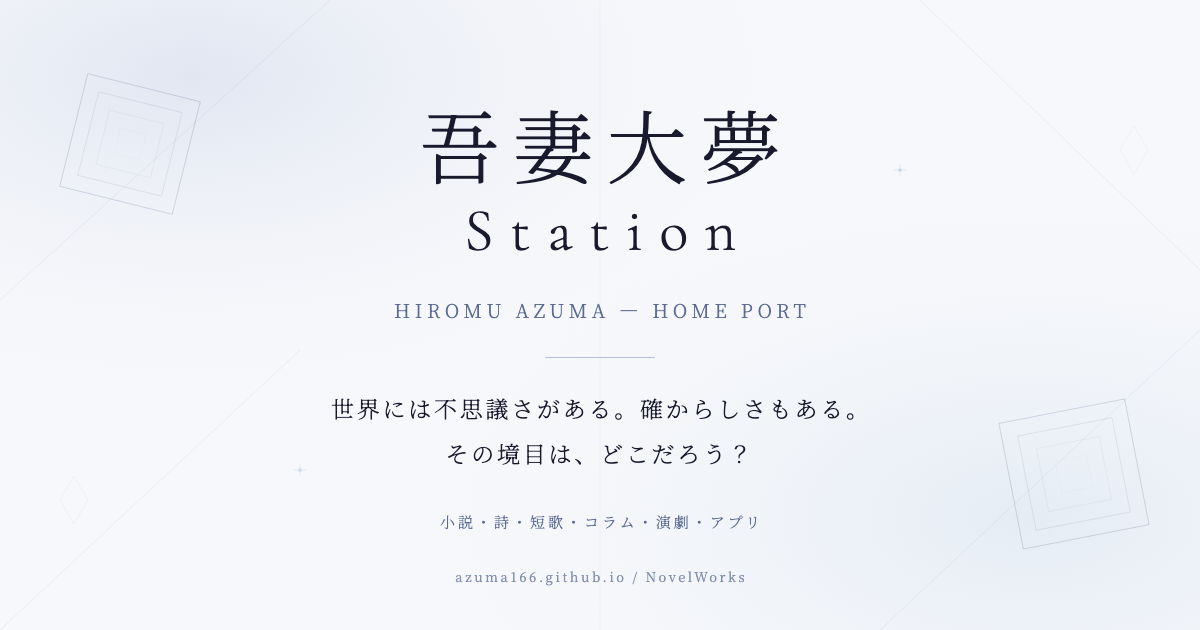
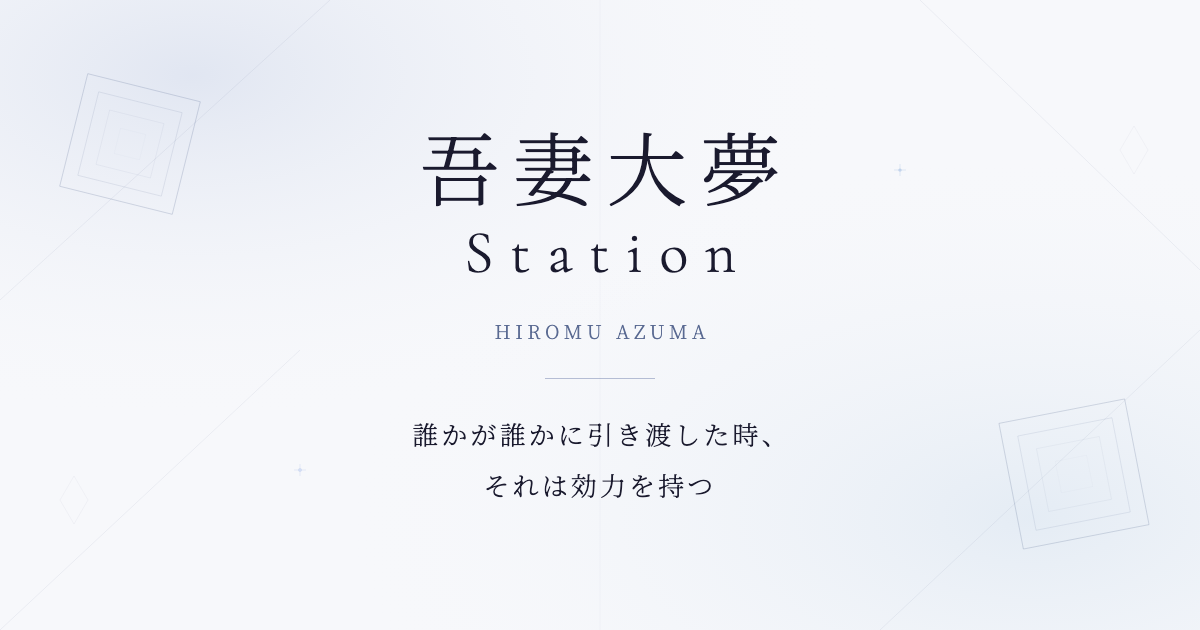
Strip the metadata down to the name and one line
Every page now carries the title 吾妻大夢 Station and the description
誰かが誰かに引き渡した時、それは効力を持つ — in <title>, meta
description, Open Graph and the Twitter card alike. The genre lists and
per-page explanations are gone.

The OGP image follows: the name, HIROMU AZUMA, and the same line. Dropped
the genre row and the URL footer.

Note this makes browser tabs and search results identical for all sixteen
pages; per-page titles can come back for navigation alone if that turns
out to matter.

diff --git a/column/shokushin/index.html b/column/shokushin/index.html
@@ -4,8 +4,8 @@
 <meta charset="UTF-8">
 <meta name="viewport" content="width=device-width, initial-scale=1.0">
 
-<title>触診｜Column｜吾妻大夢 Station</title>
-<meta name="description" content="ビジョンを立てれば人生は進む。理論武装で心は守られる。僕の頭は、個々の事象をまとめあげ何か理論を打ち立てる。ここからこの時期は観察をしていた。この時期は行為による相互干渉、ここでは強迫的拡張…">
+<title>吾妻大夢 Station</title>
+<meta name="description" content="誰かが誰かに引き渡した時、それは効力を持つ">
 <link rel="canonical" href="https://azuma166.github.io/NovelWorks/column/shokushin/">
 <meta name="author" content="吾妻大夢">
 <meta name="robots" content="index,follow,max-image-preview:large">
@@ -14,16 +14,16 @@
 
 <meta property="og:type" content="website">
 <meta property="og:site_name" content="吾妻大夢 Station">
-<meta property="og:title" content="触診 — 風船のように弾けてはならない">
-<meta property="og:description" content="ビジョンを立てれば人生は進む。理論武装で心は守られる。僕の頭は、個々の事象をまとめあげ何か理論を打ち立てる。ここからこの時期は観察をしていた。この時期は行為による相互干渉、ここでは強迫的拡張…">
+<meta property="og:title" content="吾妻大夢 Station">
+<meta property="og:description" content="誰かが誰かに引き渡した時、それは効力を持つ">
 <meta property="og:url" content="https://azuma166.github.io/NovelWorks/column/shokushin/">
 <meta property="og:image" content="https://azuma166.github.io/NovelWorks/assets/ogp.png">
 <meta property="og:image:width" content="1200">
 <meta property="og:image:height" content="630">
 <meta property="og:locale" content="ja_JP">
 <meta name="twitter:card" content="summary_large_image">
-<meta name="twitter:title" content="触診 — 風船のように弾けてはならない">
-<meta name="twitter:description" content="ビジョンを立てれば人生は進む。理論武装で心は守られる。僕の頭は、個々の事象をまとめあげ何か理論を打ち立てる。ここからこの時期は観察をしていた。この時期は行為による相互干渉、ここでは強迫的拡張…">
+<meta name="twitter:title" content="吾妻大夢 Station">
+<meta name="twitter:description" content="誰かが誰かに引き渡した時、それは効力を持つ">
 <meta name="twitter:image" content="https://azuma166.github.io/NovelWorks/assets/ogp.png">
 
 <link rel="preconnect" href="https://fonts.googleapis.com">

diff --git a/column/setsuzoku/index.html b/column/setsuzoku/index.html
@@ -4,8 +4,8 @@
 <meta charset="UTF-8">
 <meta name="viewport" content="width=device-width, initial-scale=1.0">
 
-<title>接続｜Column｜吾妻大夢 Station</title>
-<meta name="description" content="絶えず僕たちは何かに触れている。息をするだけで外界に触れ、お茶を飲むならコップに触れ、文字を打つならスマホに触れる。果てには、人に会うなら言葉に触れ、視覚像に触れ、あるいは環境的制約に、ある…">
+<title>吾妻大夢 Station</title>
+<meta name="description" content="誰かが誰かに引き渡した時、それは効力を持つ">
 <link rel="canonical" href="https://azuma166.github.io/NovelWorks/column/setsuzoku/">
 <meta name="author" content="吾妻大夢">
 <meta name="robots" content="index,follow,max-image-preview:large">
@@ -14,16 +14,16 @@
 
 <meta property="og:type" content="website">
 <meta property="og:site_name" content="吾妻大夢 Station">
-<meta property="og:title" content="接続 — 誰しもに現実は与えられる">
-<meta property="og:description" content="絶えず僕たちは何かに触れている。息をするだけで外界に触れ、お茶を飲むならコップに触れ、文字を打つならスマホに触れる。果てには、人に会うなら言葉に触れ、視覚像に触れ、あるいは環境的制約に、ある…">
+<meta property="og:title" content="吾妻大夢 Station">
+<meta property="og:description" content="誰かが誰かに引き渡した時、それは効力を持つ">
 <meta property="og:url" content="https://azuma166.github.io/NovelWorks/column/setsuzoku/">
 <meta property="og:image" content="https://azuma166.github.io/NovelWorks/assets/ogp.png">
 <meta property="og:image:width" content="1200">
 <meta property="og:image:height" content="630">
 <meta property="og:locale" content="ja_JP">
 <meta name="twitter:card" content="summary_large_image">
-<meta name="twitter:title" content="接続 — 誰しもに現実は与えられる">
-<meta name="twitter:description" content="絶えず僕たちは何かに触れている。息をするだけで外界に触れ、お茶を飲むならコップに触れ、文字を打つならスマホに触れる。果てには、人に会うなら言葉に触れ、視覚像に触れ、あるいは環境的制約に、ある…">
+<meta name="twitter:title" content="吾妻大夢 Station">
+<meta name="twitter:description" content="誰かが誰かに引き渡した時、それは効力を持つ">
 <meta name="twitter:image" content="https://azuma166.github.io/NovelWorks/assets/ogp.png">
 
 <link rel="preconnect" href="https://fonts.googleapis.com">

diff --git a/column/tenshi/index.html b/column/tenshi/index.html
@@ -4,8 +4,8 @@
 <meta charset="UTF-8">
 <meta name="viewport" content="width=device-width, initial-scale=1.0">
 
-<title>天使｜Column｜吾妻大夢 Station</title>
-<meta name="description" content="天使になりたかった。これは別に、河川敷で日々飛ぶ為の修行をしていたとか、そういう話ではなく。僕のなりたい人物像を固めていって、それに天使という名前をつけた。勝手に独りで。天使は伝言する。他者…">
+<title>吾妻大夢 Station</title>
+<meta name="description" content="誰かが誰かに引き渡した時、それは効力を持つ">
 <link rel="canonical" href="https://azuma166.github.io/NovelWorks/column/tenshi/">
 <meta name="author" content="吾妻大夢">
 <meta name="robots" content="index,follow,max-image-preview:large">
@@ -14,16 +14,16 @@
 
 <meta property="og:type" content="website">
 <meta property="og:site_name" content="吾妻大夢 Station">
-<meta property="og:title" content="天使 — 誰かを真剣に大切にすること">
-<meta property="og:description" content="天使になりたかった。これは別に、河川敷で日々飛ぶ為の修行をしていたとか、そういう話ではなく。僕のなりたい人物像を固めていって、それに天使という名前をつけた。勝手に独りで。天使は伝言する。他者…">
+<meta property="og:title" content="吾妻大夢 Station">
+<meta property="og:description" content="誰かが誰かに引き渡した時、それは効力を持つ">
 <meta property="og:url" content="https://azuma166.github.io/NovelWorks/column/tenshi/">
 <meta property="og:image" content="https://azuma166.github.io/NovelWorks/assets/ogp.png">
 <meta property="og:image:width" content="1200">
 <meta property="og:image:height" content="630">
 <meta property="og:locale" content="ja_JP">
 <meta name="twitter:card" content="summary_large_image">
-<meta name="twitter:title" content="天使 — 誰かを真剣に大切にすること">
-<meta name="twitter:description" content="天使になりたかった。これは別に、河川敷で日々飛ぶ為の修行をしていたとか、そういう話ではなく。僕のなりたい人物像を固めていって、それに天使という名前をつけた。勝手に独りで。天使は伝言する。他者…">
+<meta name="twitter:title" content="吾妻大夢 Station">
+<meta name="twitter:description" content="誰かが誰かに引き渡した時、それは効力を持つ">
 <meta name="twitter:image" content="https://azuma166.github.io/NovelWorks/assets/ogp.png">
 
 <link rel="preconnect" href="https://fonts.googleapis.com">

diff --git a/index.html b/index.html
@@ -4,8 +4,8 @@
 <meta charset="UTF-8">
 <meta name="viewport" content="width=device-width, initial-scale=1.0">
 
-<title>吾妻大夢 Station｜小説・詩・短歌・演劇・アプリ</title>
-<meta name="description" content="吾妻大夢（Hiromu Azuma）の母港。世界には不思議さがある。確からしさもある。その境目は、どこだろう？ 小説を軸に、詩、短歌、コラム、演劇、アプリケーション。">
+<title>吾妻大夢 Station</title>
+<meta name="description" content="誰かが誰かに引き渡した時、それは効力を持つ">
 <link rel="canonical" href="https://azuma166.github.io/NovelWorks/">
 <meta name="author" content="吾妻大夢">
 <meta name="robots" content="index,follow,max-image-preview:large">
@@ -14,16 +14,16 @@
 
 <meta property="og:type" content="website">
 <meta property="og:site_name" content="吾妻大夢 Station">
-<meta property="og:title" content="吾妻大夢 Station｜小説・詩・短歌・演劇・アプリ">
-<meta property="og:description" content="吾妻大夢（Hiromu Azuma）の母港。世界には不思議さがある。確からしさもある。その境目は、どこだろう？ 小説を軸に、詩、短歌、コラム、演劇、アプリケーション。">
+<meta property="og:title" content="吾妻大夢 Station">
+<meta property="og:description" content="誰かが誰かに引き渡した時、それは効力を持つ">
 <meta property="og:url" content="https://azuma166.github.io/NovelWorks/">
 <meta property="og:image" content="https://azuma166.github.io/NovelWorks/assets/ogp.png">
 <meta property="og:image:width" content="1200">
 <meta property="og:image:height" content="630">
 <meta property="og:locale" content="ja_JP">
 <meta name="twitter:card" content="summary_large_image">
-<meta name="twitter:title" content="吾妻大夢 Station｜小説・詩・短歌・演劇・アプリ">
-<meta name="twitter:description" content="吾妻大夢（Hiromu Azuma）の母港。世界には不思議さがある。確からしさもある。その境目は、どこだろう？ 小説を軸に、詩、短歌、コラム、演劇、アプリケーション。">
+<meta name="twitter:title" content="吾妻大夢 Station">
+<meta name="twitter:description" content="誰かが誰かに引き渡した時、それは効力を持つ">
 <meta name="twitter:image" content="https://azuma166.github.io/NovelWorks/assets/ogp.png">
 
 <link rel="preconnect" href="https://fonts.googleapis.com">

diff --git a/works/books/index.html b/works/books/index.html
@@ -4,8 +4,8 @@
 <meta charset="UTF-8">
 <meta name="viewport" content="width=device-width, initial-scale=1.0">
 
-<title>Books｜吾妻大夢 Station</title>
-<meta name="description" content="吾妻大夢の小説・詩集・エッセイ一覧。マジックリアリズム幻想小説、思索小説を中心に、Amazon KDPにて発売中。">
+<title>吾妻大夢 Station</title>
+<meta name="description" content="誰かが誰かに引き渡した時、それは効力を持つ">
 <link rel="canonical" href="https://azuma166.github.io/NovelWorks/works/books/">
 <meta name="author" content="吾妻大夢">
 <meta name="robots" content="index,follow,max-image-preview:large">
@@ -14,16 +14,16 @@
 
 <meta property="og:type" content="website">
 <meta property="og:site_name" content="吾妻大夢 Station">
-<meta property="og:title" content="Books — 虚構の境域にて">
-<meta property="og:description" content="吾妻大夢の小説・詩集・エッセイ一覧。マジックリアリズム幻想小説、思索小説を中心に、Amazon KDPにて発売中。">
+<meta property="og:title" content="吾妻大夢 Station">
+<meta property="og:description" content="誰かが誰かに引き渡した時、それは効力を持つ">
 <meta property="og:url" content="https://azuma166.github.io/NovelWorks/works/books/">
 <meta property="og:image" content="https://azuma166.github.io/NovelWorks/assets/ogp.png">
 <meta property="og:image:width" content="1200">
 <meta property="og:image:height" content="630">
 <meta property="og:locale" content="ja_JP">
 <meta name="twitter:card" content="summary_large_image">
-<meta name="twitter:title" content="Books — 虚構の境域にて">
-<meta name="twitter:description" content="吾妻大夢の小説・詩集・エッセイ一覧。マジックリアリズム幻想小説、思索小説を中心に、Amazon KDPにて発売中。">
+<meta name="twitter:title" content="吾妻大夢 Station">
+<meta name="twitter:description" content="誰かが誰かに引き渡した時、それは効力を持つ">
 <meta name="twitter:image" content="https://azuma166.github.io/NovelWorks/assets/ogp.png">
 
 <link rel="preconnect" href="https://fonts.googleapis.com">

diff --git a/works/theater/index.html b/works/theater/index.html
@@ -4,8 +4,8 @@
 <meta charset="UTF-8">
 <meta name="viewport" content="width=device-width, initial-scale=1.0">
 
-<title>デジカ｜Theater｜吾妻大夢 Station</title>
-<meta name="description" content="『デジカ』京田辺、演劇ないん会 第16回本公演。脚本/演出：吾妻。本編映像を公開中。">
+<title>吾妻大夢 Station</title>
+<meta name="description" content="誰かが誰かに引き渡した時、それは効力を持つ">
 <link rel="canonical" href="https://azuma166.github.io/NovelWorks/works/theater/">
 <meta name="author" content="吾妻大夢">
 <meta name="robots" content="index,follow,max-image-preview:large">
@@ -14,16 +14,16 @@
 
 <meta property="og:type" content="website">
 <meta property="og:site_name" content="吾妻大夢 Station">
-<meta property="og:title" content="デジカ — 手振りでつくられるその空気">
-<meta property="og:description" content="『デジカ』京田辺、演劇ないん会 第16回本公演。脚本/演出：吾妻。本編映像を公開中。">
+<meta property="og:title" content="吾妻大夢 Station">
+<meta property="og:description" content="誰かが誰かに引き渡した時、それは効力を持つ">
 <meta property="og:url" content="https://azuma166.github.io/NovelWorks/works/theater/">
 <meta property="og:image" content="https://azuma166.github.io/NovelWorks/assets/ogp.png">
 <meta property="og:image:width" content="1200">
 <meta property="og:image:height" content="630">
 <meta property="og:locale" content="ja_JP">
 <meta name="twitter:card" content="summary_large_image">
-<meta name="twitter:title" content="デジカ — 手振りでつくられるその空気">
-<meta name="twitter:description" content="『デジカ』京田辺、演劇ないん会 第16回本公演。脚本/演出：吾妻。本編映像を公開中。">
+<meta name="twitter:title" content="吾妻大夢 Station">
+<meta name="twitter:description" content="誰かが誰かに引き渡した時、それは効力を持つ">
 <meta name="twitter:image" content="https://azuma166.github.io/NovelWorks/assets/ogp.png">
 
 <link rel="preconnect" href="https://fonts.googleapis.com">

diff --git a/works/tanka/dictionary/index.html b/works/tanka/dictionary/index.html
@@ -4,8 +4,8 @@
 <meta charset="UTF-8">
 <meta name="viewport" content="width=device-width, initial-scale=1.0">
 
-<title>ディクショナリ｜Tanka｜吾妻大夢 Station</title>
-<meta name="description" content="吾妻大夢の短歌連作『ディクショナリ』25首。">
+<title>吾妻大夢 Station</title>
+<meta name="description" content="誰かが誰かに引き渡した時、それは効力を持つ">
 <link rel="canonical" href="https://azuma166.github.io/NovelWorks/works/tanka/dictionary/">
 <meta name="author" content="吾妻大夢">
 <meta name="robots" content="index,follow,max-image-preview:large">
@@ -14,16 +14,16 @@
 
 <meta property="og:type" content="website">
 <meta property="og:site_name" content="吾妻大夢 Station">
-<meta property="og:title" content="ディクショナリ — 漂えば隙間が埋まる">
-<meta property="og:description" content="吾妻大夢の短歌連作『ディクショナリ』25首。">
+<meta property="og:title" content="吾妻大夢 Station">
+<meta property="og:description" content="誰かが誰かに引き渡した時、それは効力を持つ">
 <meta property="og:url" content="https://azuma166.github.io/NovelWorks/works/tanka/dictionary/">
 <meta property="og:image" content="https://azuma166.github.io/NovelWorks/assets/ogp.png">
 <meta property="og:image:width" content="1200">
 <meta property="og:image:height" content="630">
 <meta property="og:locale" content="ja_JP">
 <meta name="twitter:card" content="summary_large_image">
-<meta name="twitter:title" content="ディクショナリ — 漂えば隙間が埋まる">
-<meta name="twitter:description" content="吾妻大夢の短歌連作『ディクショナリ』25首。">
+<meta name="twitter:title" content="吾妻大夢 Station">
+<meta name="twitter:description" content="誰かが誰かに引き渡した時、それは効力を持つ">
 <meta name="twitter:image" content="https://azuma166.github.io/NovelWorks/assets/ogp.png">
 
 <link rel="preconnect" href="https://fonts.googleapis.com">

diff --git a/works/index.html b/works/index.html
@@ -4,8 +4,8 @@
 <meta charset="UTF-8">
 <meta name="viewport" content="width=device-width, initial-scale=1.0">
 
-<title>Works｜吾妻大夢 Station</title>
-<meta name="description" content="吾妻大夢の作品。小説、詩、短歌、演劇、アプリケーション。">
+<title>吾妻大夢 Station</title>
+<meta name="description" content="誰かが誰かに引き渡した時、それは効力を持つ">
 <link rel="canonical" href="https://azuma166.github.io/NovelWorks/works/">
 <meta name="author" content="吾妻大夢">
 <meta name="robots" content="index,follow,max-image-preview:large">
@@ -14,16 +14,16 @@
 
 <meta property="og:type" content="website">
 <meta property="og:site_name" content="吾妻大夢 Station">
-<meta property="og:title" content="Works｜吾妻大夢 Station">
-<meta property="og:description" content="吾妻大夢の作品。小説、詩、短歌、演劇、アプリケーション。">
+<meta property="og:title" content="吾妻大夢 Station">
+<meta property="og:description" content="誰かが誰かに引き渡した時、それは効力を持つ">
 <meta property="og:url" content="https://azuma166.github.io/NovelWorks/works/">
 <meta property="og:image" content="https://azuma166.github.io/NovelWorks/assets/ogp.png">
 <meta property="og:image:width" content="1200">
 <meta property="og:image:height" content="630">
 <meta property="og:locale" content="ja_JP">
 <meta name="twitter:card" content="summary_large_image">
-<meta name="twitter:title" content="Works｜吾妻大夢 Station">
-<meta name="twitter:description" content="吾妻大夢の作品。小説、詩、短歌、演劇、アプリケーション。">
+<meta name="twitter:title" content="吾妻大夢 Station">
+<meta name="twitter:description" content="誰かが誰かに引き渡した時、それは効力を持つ">
 <meta name="twitter:image" content="https://azuma166.github.io/NovelWorks/assets/ogp.png">
 
 <link rel="preconnect" href="https://fonts.googleapis.com">

diff --git a/works/poem/kuuriki/index.html b/works/poem/kuuriki/index.html
@@ -4,8 +4,8 @@
 <meta charset="UTF-8">
 <meta name="viewport" content="width=device-width, initial-scale=1.0">
 
-<title>空力の考察｜Poem｜吾妻大夢 Station</title>
-<meta name="description" content="吾妻大夢の詩『空力の考察』全文。">
+<title>吾妻大夢 Station</title>
+<meta name="description" content="誰かが誰かに引き渡した時、それは効力を持つ">
 <link rel="canonical" href="https://azuma166.github.io/NovelWorks/works/poem/kuuriki/">
 <meta name="author" content="吾妻大夢">
 <meta name="robots" content="index,follow,max-image-preview:large">
@@ -14,16 +14,16 @@
 
 <meta property="og:type" content="website">
 <meta property="og:site_name" content="吾妻大夢 Station">
-<meta property="og:title" content="空力の考察 — 言葉の前に、あるなにか">
-<meta property="og:description" content="吾妻大夢の詩『空力の考察』全文。">
+<meta property="og:title" content="吾妻大夢 Station">
+<meta property="og:description" content="誰かが誰かに引き渡した時、それは効力を持つ">
 <meta property="og:url" content="https://azuma166.github.io/NovelWorks/works/poem/kuuriki/">
 <meta property="og:image" content="https://azuma166.github.io/NovelWorks/assets/ogp.png">
 <meta property="og:image:width" content="1200">
 <meta property="og:image:height" content="630">
 <meta property="og:locale" content="ja_JP">
 <meta name="twitter:card" content="summary_large_image">
-<meta name="twitter:title" content="空力の考察 — 言葉の前に、あるなにか">
-<meta name="twitter:description" content="吾妻大夢の詩『空力の考察』全文。">
+<meta name="twitter:title" content="吾妻大夢 Station">
+<meta name="twitter:description" content="誰かが誰かに引き渡した時、それは効力を持つ">
 <meta name="twitter:image" content="https://azuma166.github.io/NovelWorks/assets/ogp.png">
 
 <link rel="preconnect" href="https://fonts.googleapis.com">

diff --git a/works/app/index.html b/works/app/index.html
@@ -4,8 +4,8 @@
 <meta charset="UTF-8">
 <meta name="viewport" content="width=device-width, initial-scale=1.0">
 
-<title>App｜吾妻大夢 Station</title>
-<meta name="description" content="接鳴 -電子焚火- と CroqKey。吾妻大夢のアプリケーション。">
+<title>吾妻大夢 Station</title>
+<meta name="description" content="誰かが誰かに引き渡した時、それは効力を持つ">
 <link rel="canonical" href="https://azuma166.github.io/NovelWorks/works/app/">
 <meta name="author" content="吾妻大夢">
 <meta name="robots" content="index,follow,max-image-preview:large">
@@ -14,16 +14,16 @@
 
 <meta property="og:type" content="website">
 <meta property="og:site_name" content="吾妻大夢 Station">
-<meta property="og:title" content="App — 機構的可能性">
-<meta property="og:description" content="接鳴 -電子焚火- と CroqKey。吾妻大夢のアプリケーション。">
+<meta property="og:title" content="吾妻大夢 Station">
+<meta property="og:description" content="誰かが誰かに引き渡した時、それは効力を持つ">
 <meta property="og:url" content="https://azuma166.github.io/NovelWorks/works/app/">
 <meta property="og:image" content="https://azuma166.github.io/NovelWorks/assets/ogp.png">
 <meta property="og:image:width" content="1200">
 <meta property="og:image:height" content="630">
 <meta property="og:locale" content="ja_JP">
 <meta name="twitter:card" content="summary_large_image">
-<meta name="twitter:title" content="App — 機構的可能性">
-<meta name="twitter:description" content="接鳴 -電子焚火- と CroqKey。吾妻大夢のアプリケーション。">
+<meta name="twitter:title" content="吾妻大夢 Station">
+<meta name="twitter:description" content="誰かが誰かに引き渡した時、それは効力を持つ">
 <meta name="twitter:image" content="https://azuma166.github.io/NovelWorks/assets/ogp.png">
 
 <link rel="preconnect" href="https://fonts.googleapis.com">

diff --git a/works/tanka/index.html b/works/tanka/index.html
@@ -4,8 +4,8 @@
 <meta charset="UTF-8">
 <meta name="viewport" content="width=device-width, initial-scale=1.0">
 
-<title>Tanka｜吾妻大夢 Station</title>
-<meta name="description" content="吾妻大夢の短歌。ディクショナリ、戯画。">
+<title>吾妻大夢 Station</title>
+<meta name="description" content="誰かが誰かに引き渡した時、それは効力を持つ">
 <link rel="canonical" href="https://azuma166.github.io/NovelWorks/works/tanka/">
 <meta name="author" content="吾妻大夢">
 <meta name="robots" content="index,follow,max-image-preview:large">
@@ -14,16 +14,16 @@
 
 <meta property="og:type" content="website">
 <meta property="og:site_name" content="吾妻大夢 Station">
-<meta property="og:title" content="Tanka — 漂えば隙間が埋まる">
-<meta property="og:description" content="吾妻大夢の短歌。ディクショナリ、戯画。">
+<meta property="og:title" content="吾妻大夢 Station">
+<meta property="og:description" content="誰かが誰かに引き渡した時、それは効力を持つ">
 <meta property="og:url" content="https://azuma166.github.io/NovelWorks/works/tanka/">
 <meta property="og:image" content="https://azuma166.github.io/NovelWorks/assets/ogp.png">
 <meta property="og:image:width" content="1200">
 <meta property="og:image:height" content="630">
 <meta property="og:locale" content="ja_JP">
 <meta name="twitter:card" content="summary_large_image">
-<meta name="twitter:title" content="Tanka — 漂えば隙間が埋まる">
-<meta name="twitter:description" content="吾妻大夢の短歌。ディクショナリ、戯画。">
+<meta name="twitter:title" content="吾妻大夢 Station">
+<meta name="twitter:description" content="誰かが誰かに引き渡した時、それは効力を持つ">
 <meta name="twitter:image" content="https://azuma166.github.io/NovelWorks/assets/ogp.png">
 
 <link rel="preconnect" href="https://fonts.googleapis.com">

diff --git a/contact/index.html b/contact/index.html
@@ -4,8 +4,8 @@
 <meta charset="UTF-8">
 <meta name="viewport" content="width=device-width, initial-scale=1.0">
 
-<title>Contact｜吾妻大夢 Station</title>
-<meta name="description" content="吾妻大夢への連絡先。メール、X、note、YouTube。">
+<title>吾妻大夢 Station</title>
+<meta name="description" content="誰かが誰かに引き渡した時、それは効力を持つ">
 <link rel="canonical" href="https://azuma166.github.io/NovelWorks/contact/">
 <meta name="author" content="吾妻大夢">
 <meta name="robots" content="index,follow,max-image-preview:large">
@@ -14,16 +14,16 @@
 
 <meta property="og:type" content="website">
 <meta property="og:site_name" content="吾妻大夢 Station">
-<meta property="og:title" content="Contact｜吾妻大夢 Station">
-<meta property="og:description" content="吾妻大夢への連絡先。メール、X、note、YouTube。">
+<meta property="og:title" content="吾妻大夢 Station">
+<meta property="og:description" content="誰かが誰かに引き渡した時、それは効力を持つ">
 <meta property="og:url" content="https://azuma166.github.io/NovelWorks/contact/">
 <meta property="og:image" content="https://azuma166.github.io/NovelWorks/assets/ogp.png">
 <meta property="og:image:width" content="1200">
 <meta property="og:image:height" content="630">
 <meta property="og:locale" content="ja_JP">
 <meta name="twitter:card" content="summary_large_image">
-<meta name="twitter:title" content="Contact｜吾妻大夢 Station">
-<meta name="twitter:description" content="吾妻大夢への連絡先。メール、X、note、YouTube。">
+<meta name="twitter:title" content="吾妻大夢 Station">
+<meta name="twitter:description" content="誰かが誰かに引き渡した時、それは効力を持つ">
 <meta name="twitter:image" content="https://azuma166.github.io/NovelWorks/assets/ogp.png">
 
 <link rel="preconnect" href="https://fonts.googleapis.com">
